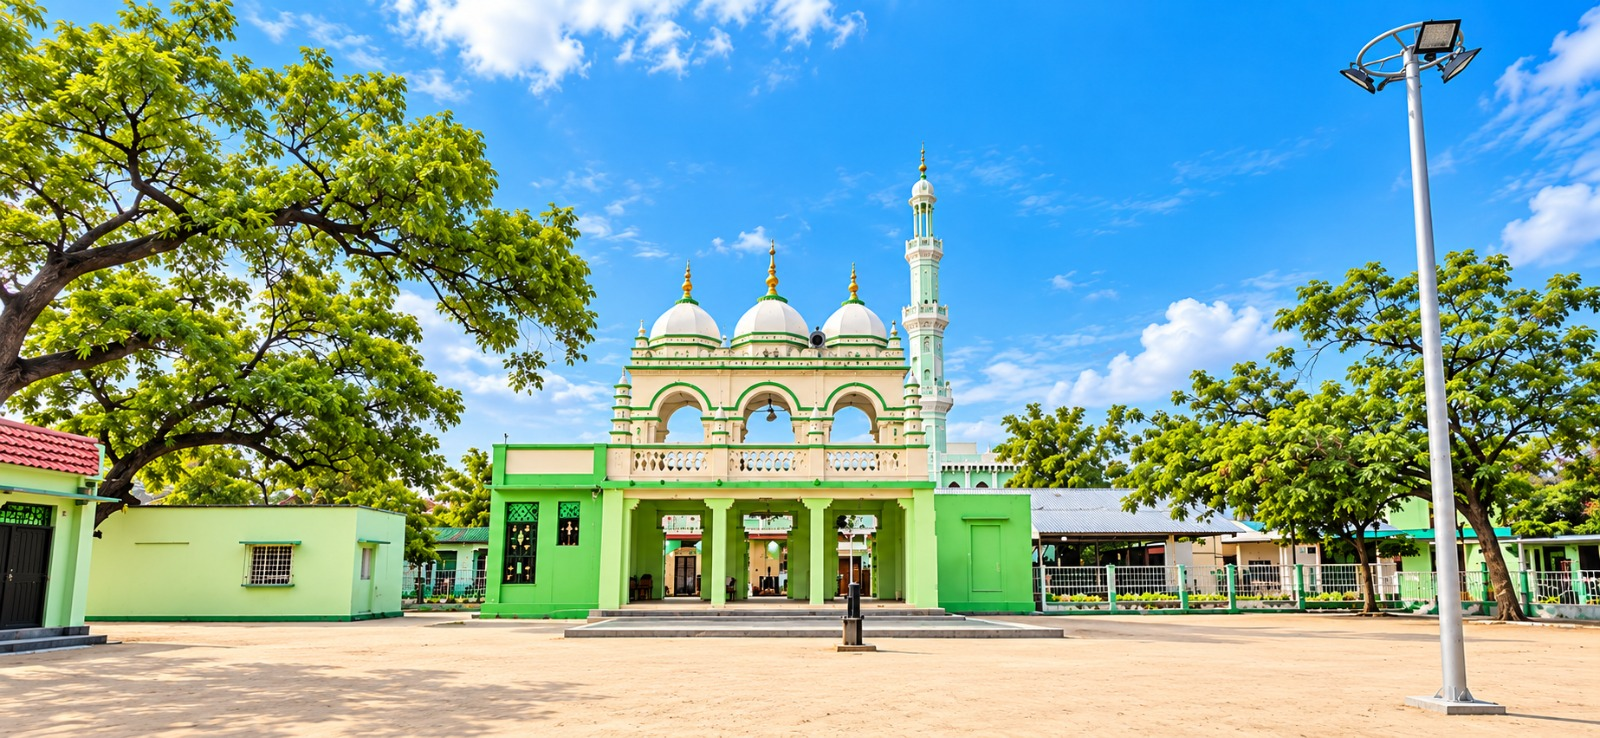
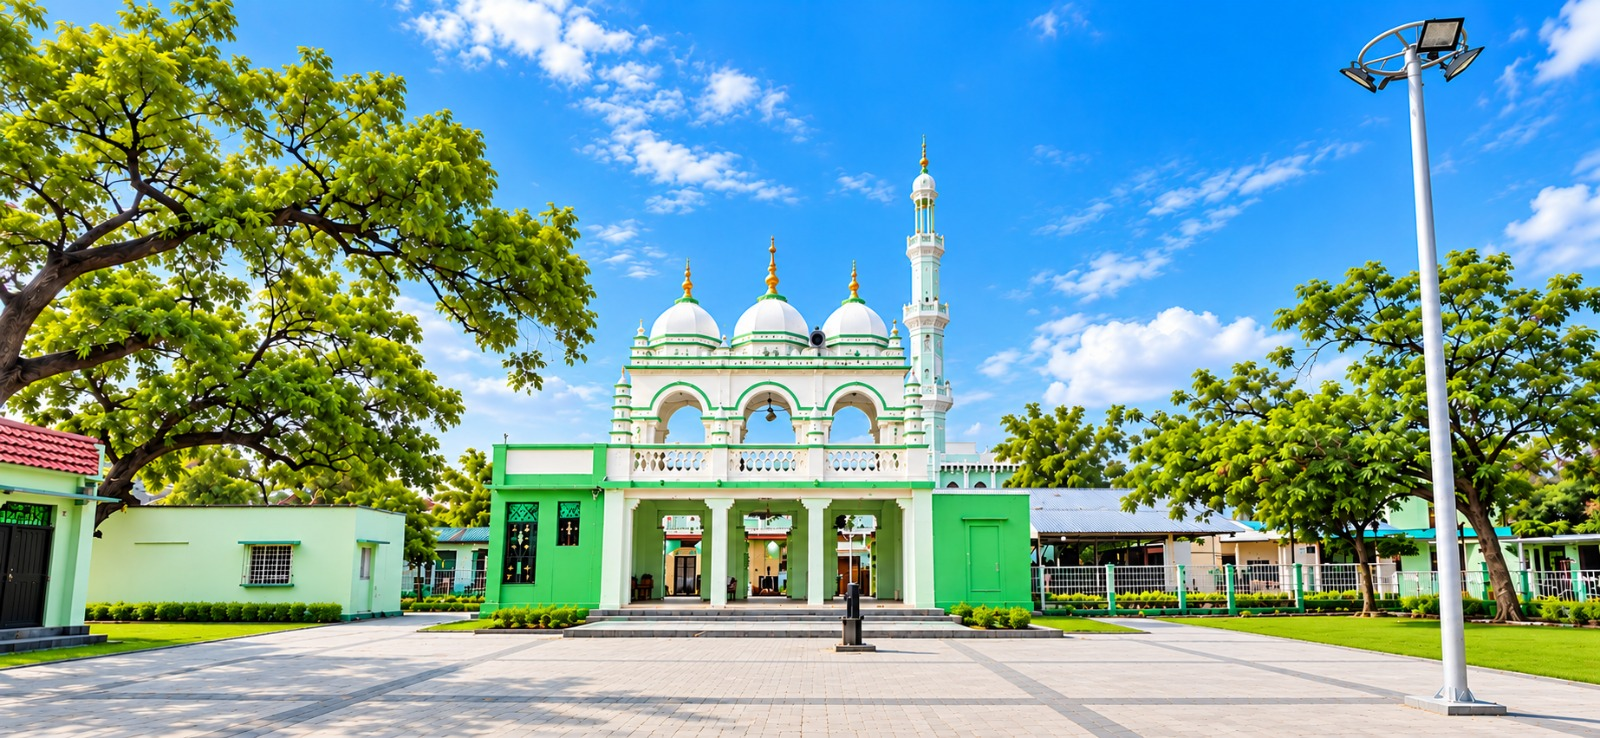
review update

diff --git a/css/styles.css b/css/styles.css
@@ -1106,6 +1106,59 @@ a:focus, a:focus-visible {
   width: 270px;
 }
 
+/* Floating WhatsApp Button - Fixed Bottom Right */
+.whatsapp-float-btn {
+    position: fixed;
+    bottom: 25px;
+    right: 25px;
+    background-color: #25d366;
+    color: #ffffff !important;
+    border-radius: 30px;
+    padding: 12px 20px;
+    font-weight: 700;
+    font-size: 14px;
+    box-shadow: 0 6px 20px rgba(37, 211, 102, 0.4);
+    z-index: 9999;
+    display: flex;
+    align-items: center;
+    gap: 8px;
+    text-decoration: none !important;
+    transition: all 0.3s ease;
+}
+
+.whatsapp-float-btn i {
+    font-size: 20px;
+}
+
+.whatsapp-float-btn:hover {
+    background-color: #1ebc57;
+    transform: translateY(-3px) scale(1.04);
+    box-shadow: 0 10px 25px rgba(37, 211, 102, 0.5);
+    color: #ffffff !important;
+}
+
+/* Mobile Responsiveness (< 768px) */
+@media (max-width: 767px) {
+    .whatsapp-float-btn {
+        bottom: 15px;
+        right: 15px;
+        padding: 10px 14px;
+        font-size: 12px;
+        border-radius: 50%; /* Converts to compact round icon on small screens to save space */
+        width: 48px;
+        height: 48px;
+        justify-content: center;
+    }
+
+    .whatsapp-float-btn .whatsapp-btn-text {
+        display: none; /* Hides text on mobile so both bottom buttons fit without overlapping */
+    }
+
+    .whatsapp-float-btn i {
+        font-size: 24px;
+    }
+}
+
 /* Mobile Responsiveness Adjustments (< 768px) */
 @media (max-width: 767px) {
     .footer-col {
@@ -13317,7 +13370,6 @@ button.close {
       transform: translate(-50%, -75%);
       display: block;
       width: 100%;
-    color: #1C2826;
   text-shadow: 0px 0px 10px rgba(255, 255, 255, 0.8); }
       .section-slider .item .carousel-caption h1 {
         font-size: 69px;

diff --git a/index.html b/index.html
@@ -112,7 +112,7 @@
     <section class="section-slider height-v">
         <div id="index12" class="owl-carousel  owl-theme">
             <div class="item">
-                <img alt="Third slide" src="images/Home+/ervadi-dharga.jpeg" class="img-responsive" fetchpriority="high">
+                <img alt="Third slide" src="images/Home+/ervadi-dharga-1.jpeg" class="img-responsive" fetchpriority="high">
                 <div class="carousel-caption">
                     <h1 class="v2">Welcome to Darbaar Guest House</h1>
                     <p class="p-v2"><span class="line-t"></span>Hotels & Guest House <span class="line-b"></span></p>
@@ -200,8 +200,7 @@
         <div class="container">
             <h2 class="title-room">Our Rooms</h2>
             <div class="outline"></div>
-            <p class="rooms-p">Clean, well-maintained rooms with cooking space, car parking, and 24/7 in-house
-                assistance</p>
+            <p class="rooms-p">Clean, well-maintained rooms with cooking facilities, car parking, 24/7 in-house assistance, and generator power backup for uninterrupted comfort.</p>
             <div class="wrap-rooms">
                 <div class="row">
                     <div id="rooms" class="owl-carousel owl-theme">
@@ -1011,6 +1010,14 @@
             });
         });
     </script>
+<!-- Floating WhatsApp Chat Widget -->
+<a href="https://wa.me/919994131915?text=Hi%20Darbaar%20Guest%20House,%20I%20would%20like%20to%20enquire%20about%20room%20availability%20and%20booking." 
+   target="_blank" 
+   class="whatsapp-float-btn" 
+   aria-label="Chat on WhatsApp">
+    <i class="fa fa-whatsapp"></i>
+    <span class="whatsapp-btn-text">Chat with Us</span>
+</a>
 </body>
 
 </html>

diff --git a/room.html b/room.html
@@ -284,6 +284,14 @@
     <!-- Custom jQuery -->
     <script type="text/javascript" src="js/sky.js"></script>
 
+<!-- Floating WhatsApp Chat Widget -->
+<a href="https://wa.me/919994131915?text=Hi%20Darbaar%20Guest%20House,%20I%20would%20like%20to%20enquire%20about%20room%20availability%20and%20booking." 
+   target="_blank" 
+   class="whatsapp-float-btn" 
+   aria-label="Chat on WhatsApp">
+    <i class="fa fa-whatsapp"></i>
+    <span class="whatsapp-btn-text">Chat with Us</span>
+</a>
 </body>
 
 </html>

diff --git a/services.html b/services.html
@@ -556,6 +556,14 @@
             });
         });
     </script>
+<!-- Floating WhatsApp Chat Widget -->
+<a href="https://wa.me/919994131915?text=Hi%20Darbaar%20Guest%20House,%20I%20would%20like%20to%20enquire%20about%20room%20availability%20and%20booking." 
+   target="_blank" 
+   class="whatsapp-float-btn" 
+   aria-label="Chat on WhatsApp">
+    <i class="fa fa-whatsapp"></i>
+    <span class="whatsapp-btn-text">Chat with Us</span>
+</a>
 </body>
 
 </html>

diff --git a/about.html b/about.html
@@ -323,6 +323,14 @@
         });
     </script>
 
+<!-- Floating WhatsApp Chat Widget -->
+<a href="https://wa.me/919994131915?text=Hi%20Darbaar%20Guest%20House,%20I%20would%20like%20to%20enquire%20about%20room%20availability%20and%20booking." 
+   target="_blank" 
+   class="whatsapp-float-btn" 
+   aria-label="Chat on WhatsApp">
+    <i class="fa fa-whatsapp"></i>
+    <span class="whatsapp-btn-text">Chat with Us</span>
+</a>
 </body>
 
 </html>

diff --git a/contact.html b/contact.html
@@ -274,6 +274,14 @@
         });
     </script>
 
+<!-- Floating WhatsApp Chat Widget -->
+<a href="https://wa.me/919994131915?text=Hi%20Darbaar%20Guest%20House,%20I%20would%20like%20to%20enquire%20about%20room%20availability%20and%20booking." 
+   target="_blank" 
+   class="whatsapp-float-btn" 
+   aria-label="Chat on WhatsApp">
+    <i class="fa fa-whatsapp"></i>
+    <span class="whatsapp-btn-text">Chat with Us</span>
+</a>
 </body>
 
 </html>

diff --git a/dargahs.html b/dargahs.html
@@ -323,6 +323,14 @@
         });
     </script>
 
+<!-- Floating WhatsApp Chat Widget -->
+<a href="https://wa.me/919994131915?text=Hi%20Darbaar%20Guest%20House,%20I%20would%20like%20to%20enquire%20about%20room%20availability%20and%20booking." 
+   target="_blank" 
+   class="whatsapp-float-btn" 
+   aria-label="Chat on WhatsApp">
+    <i class="fa fa-whatsapp"></i>
+    <span class="whatsapp-btn-text">Chat with Us</span>
+</a>
 </body>
 
 </html>

diff --git a/gallery.html b/gallery.html
@@ -966,6 +966,14 @@
         });
     </script>
 
+<!-- Floating WhatsApp Chat Widget -->
+<a href="https://wa.me/919994131915?text=Hi%20Darbaar%20Guest%20House,%20I%20would%20like%20to%20enquire%20about%20room%20availability%20and%20booking." 
+   target="_blank" 
+   class="whatsapp-float-btn" 
+   aria-label="Chat on WhatsApp">
+    <i class="fa fa-whatsapp"></i>
+    <span class="whatsapp-btn-text">Chat with Us</span>
+</a>
 </body>
 
 </html>

diff --git a/specialties.html b/specialties.html
@@ -329,6 +329,14 @@
         });
     </script>
 
+<!-- Floating WhatsApp Chat Widget -->
+<a href="https://wa.me/919994131915?text=Hi%20Darbaar%20Guest%20House,%20I%20would%20like%20to%20enquire%20about%20room%20availability%20and%20booking." 
+   target="_blank" 
+   class="whatsapp-float-btn" 
+   aria-label="Chat on WhatsApp">
+    <i class="fa fa-whatsapp"></i>
+    <span class="whatsapp-btn-text">Chat with Us</span>
+</a>
 </body>
 
 </html>

diff --git a/uroos.html b/uroos.html
@@ -410,6 +410,14 @@
         });
     </script>
 
+<!-- Floating WhatsApp Chat Widget -->
+<a href="https://wa.me/919994131915?text=Hi%20Darbaar%20Guest%20House,%20I%20would%20like%20to%20enquire%20about%20room%20availability%20and%20booking." 
+   target="_blank" 
+   class="whatsapp-float-btn" 
+   aria-label="Chat on WhatsApp">
+    <i class="fa fa-whatsapp"></i>
+    <span class="whatsapp-btn-text">Chat with Us</span>
+</a>
 </body>
 
 </html>

diff --git a/visit.html b/visit.html
@@ -444,6 +444,14 @@
         });
     </script>
 
+<!-- Floating WhatsApp Chat Widget -->
+<a href="https://wa.me/919994131915?text=Hi%20Darbaar%20Guest%20House,%20I%20would%20like%20to%20enquire%20about%20room%20availability%20and%20booking." 
+   target="_blank" 
+   class="whatsapp-float-btn" 
+   aria-label="Chat on WhatsApp">
+    <i class="fa fa-whatsapp"></i>
+    <span class="whatsapp-btn-text">Chat with Us</span>
+</a>
 </body>
 
 </html>
